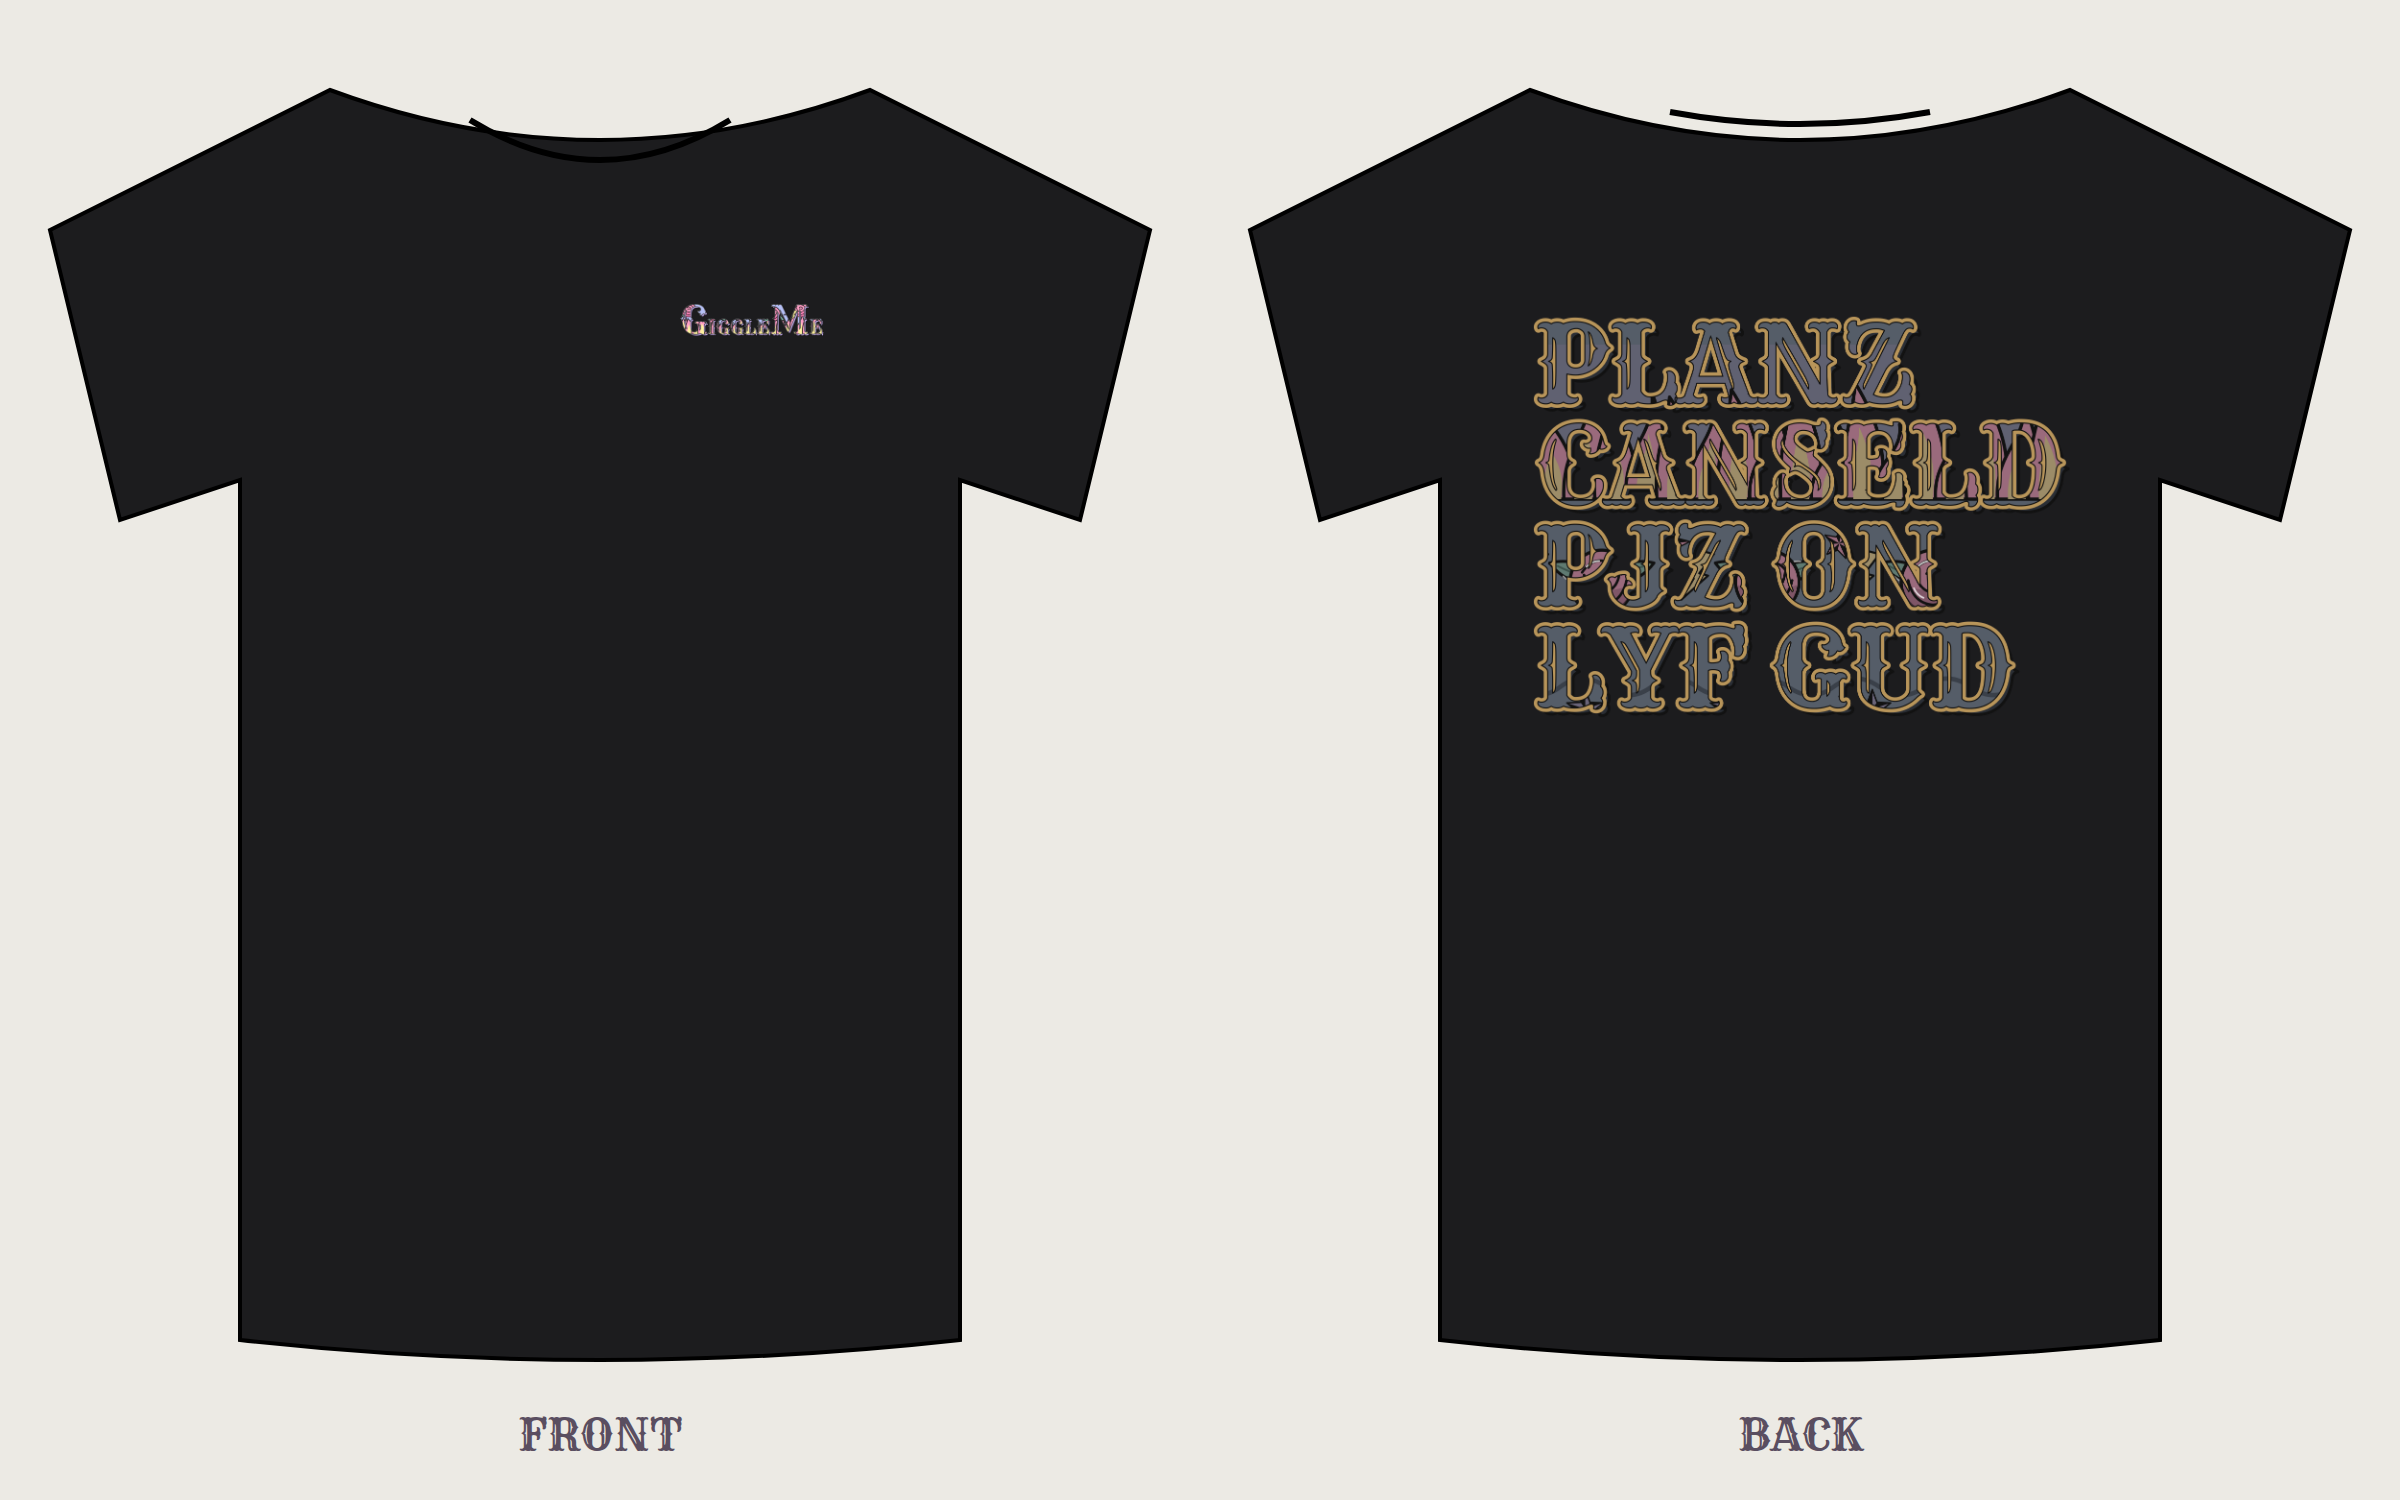
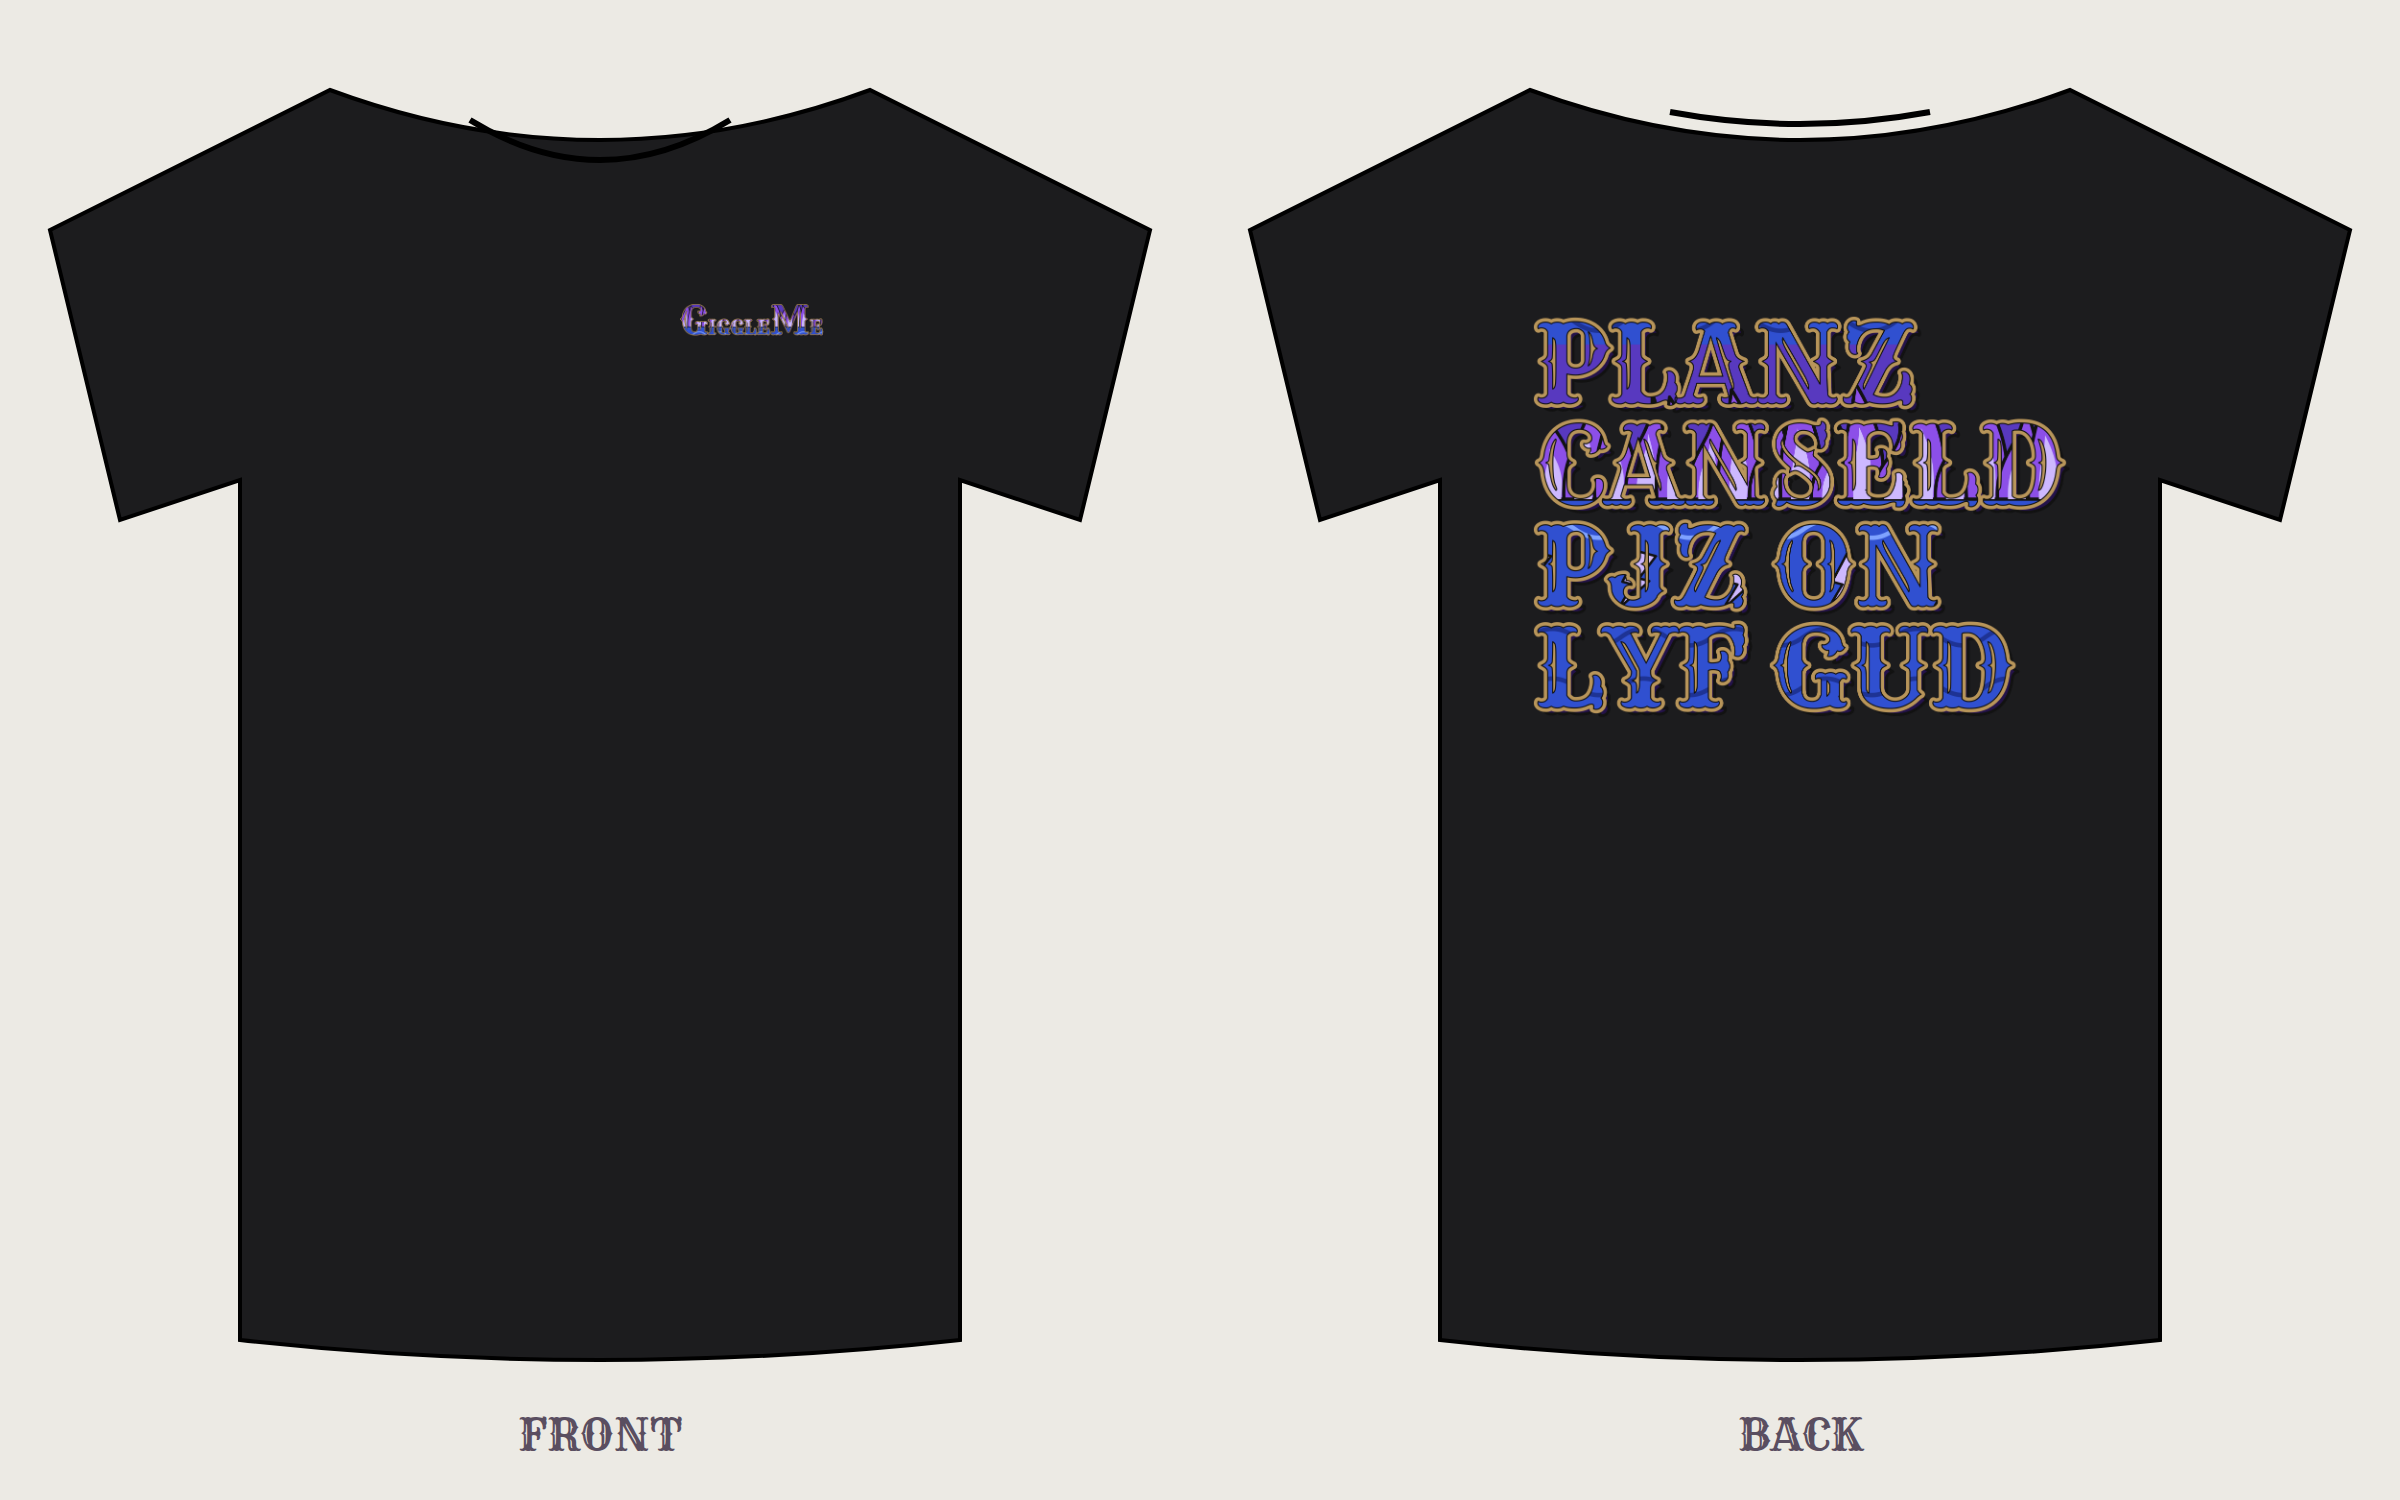
Series 01: royal blue and purple ink, no roses or stars, matching front
New royal.mjs palette (royal blue, royal purple, lilac, deep purple shadow,
matte gold). Letter art is now waves, flames and lightning only. The chest
logo uses the same art and gold outline as the backs. README updated.

Claude-Session: https://claude.ai/code/session_01SBY6dR2H7LfBCYUkSdoXAH

Changed region(s): [[0.625, 0.2147, 0.875, 0.4907], [0.2812, 0.184, 0.3438, 0.2453]]

diff --git a/designs/series-01/README.md b/designs/series-01/README.md
@@ -4,17 +4,17 @@
 
 ![Front and back](../previews/series-01-front-back.jpg)
 
-Ten tees: the **GiggleMe logo** on the front left chest, and a stacked saying across the back at Printful's biggest back size. The back letters are filled with GiggleMe tattoo art in a darker gunmetal palette (gunmetal grey, dusty rose, smoky lavender, sage, muted brass) and boldly outlined in matte gold. Every letter on a back is the same size, every line starts at the same left edge, and the block is centered top to bottom.
+Ten tees: the **GiggleMe logo** (with a double-height G and M) on the front left chest, and a stacked saying across the back at Printful's biggest back size. Front and back letters match: tattoo-style art inside each letter in **royal blue and royal purple** (blue waves, purple flames, lilac lightning; no roses or stars), a deep purple shadow, and a bold **matte-gold outline**. Every letter on a back is the same size, every line starts at the same left edge, and the block is centered top to bottom.
 
 ## Files
 
 | File | Where it prints | Size |
 |---|---|---|
-| `logo-left-chest.png` | **Front, left chest** (same file on every shirt): the GiggleMe wordmark with the first G and the M at double height | 1200 × 267 px · 4 in wide · 300 DPI |
+| `logo-left-chest.png` | **Front, left chest** (same file on every shirt): GiggleMe with the first G and the M at double height, in the same royal/gold style as the backs | 1200 × 267 px · 4 in wide · 300 DPI |
 | `<design>/back-print.png` | **Back**, oversize | 4500 × 5400 px · 15 × 18 in · 300 DPI |
 | `<design>/mockup.png` | Preview only | |
 
-This gunmetal-and-gold look is made for **black, charcoal and navy** shirts. On white or cream the gold outline reads softer.
+This royal-and-gold look is made for **black and charcoal** shirts (navy works but the royal blue blends in more). On white or cream the gold outline reads softer.
 
 ## Set it up in Printful
 
